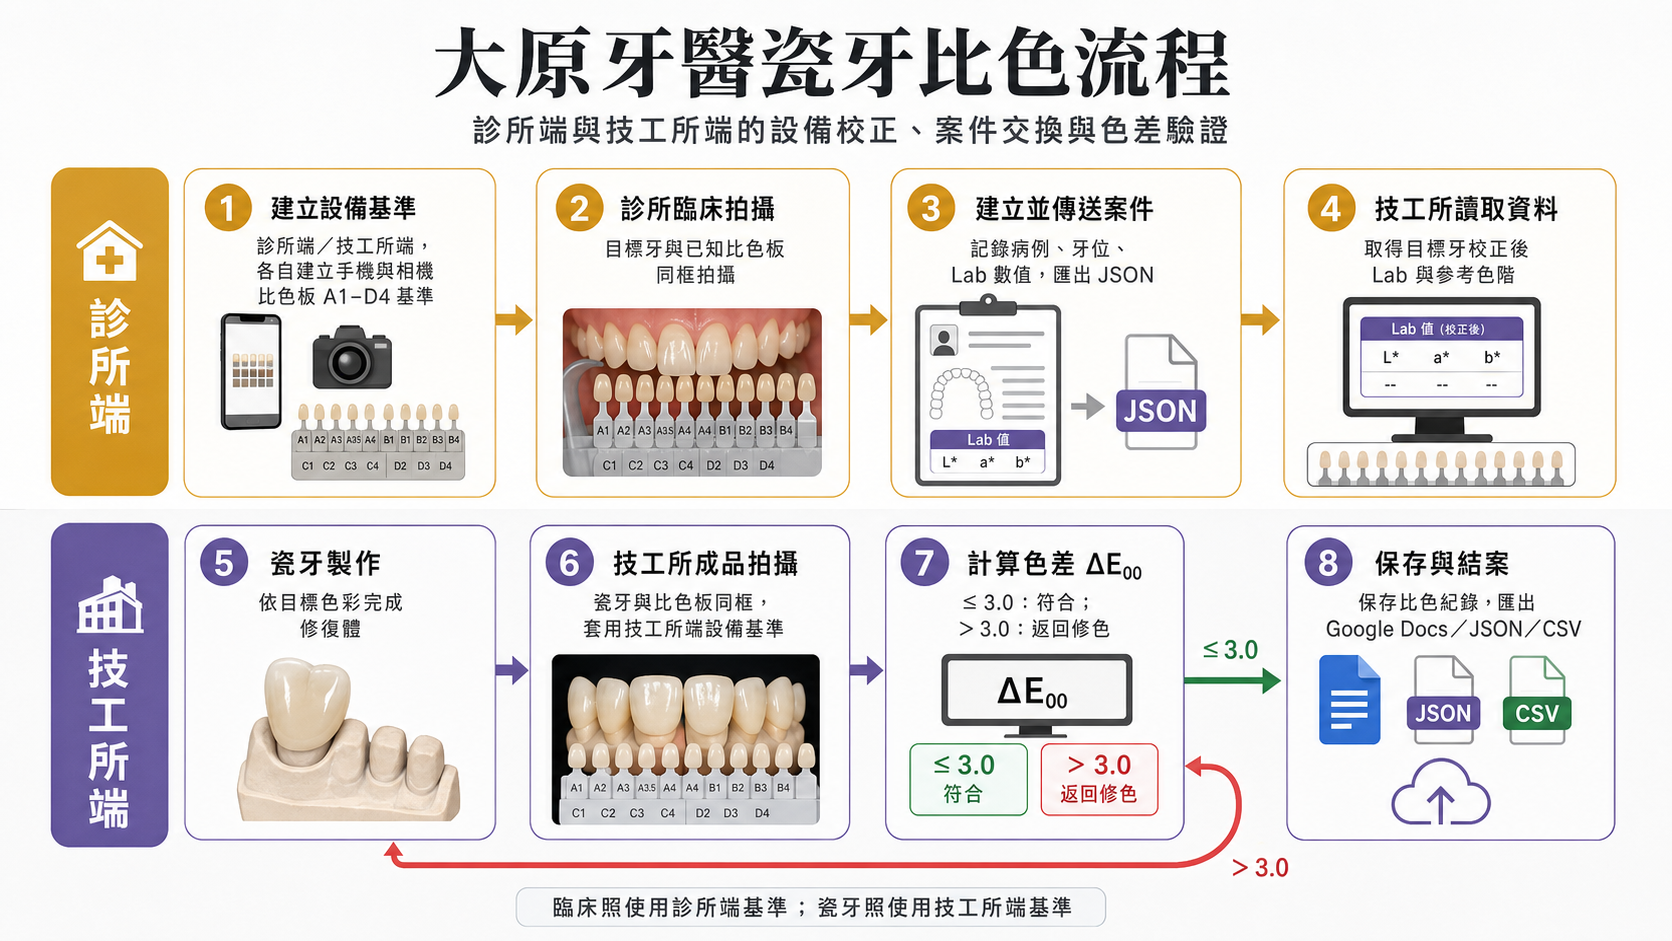
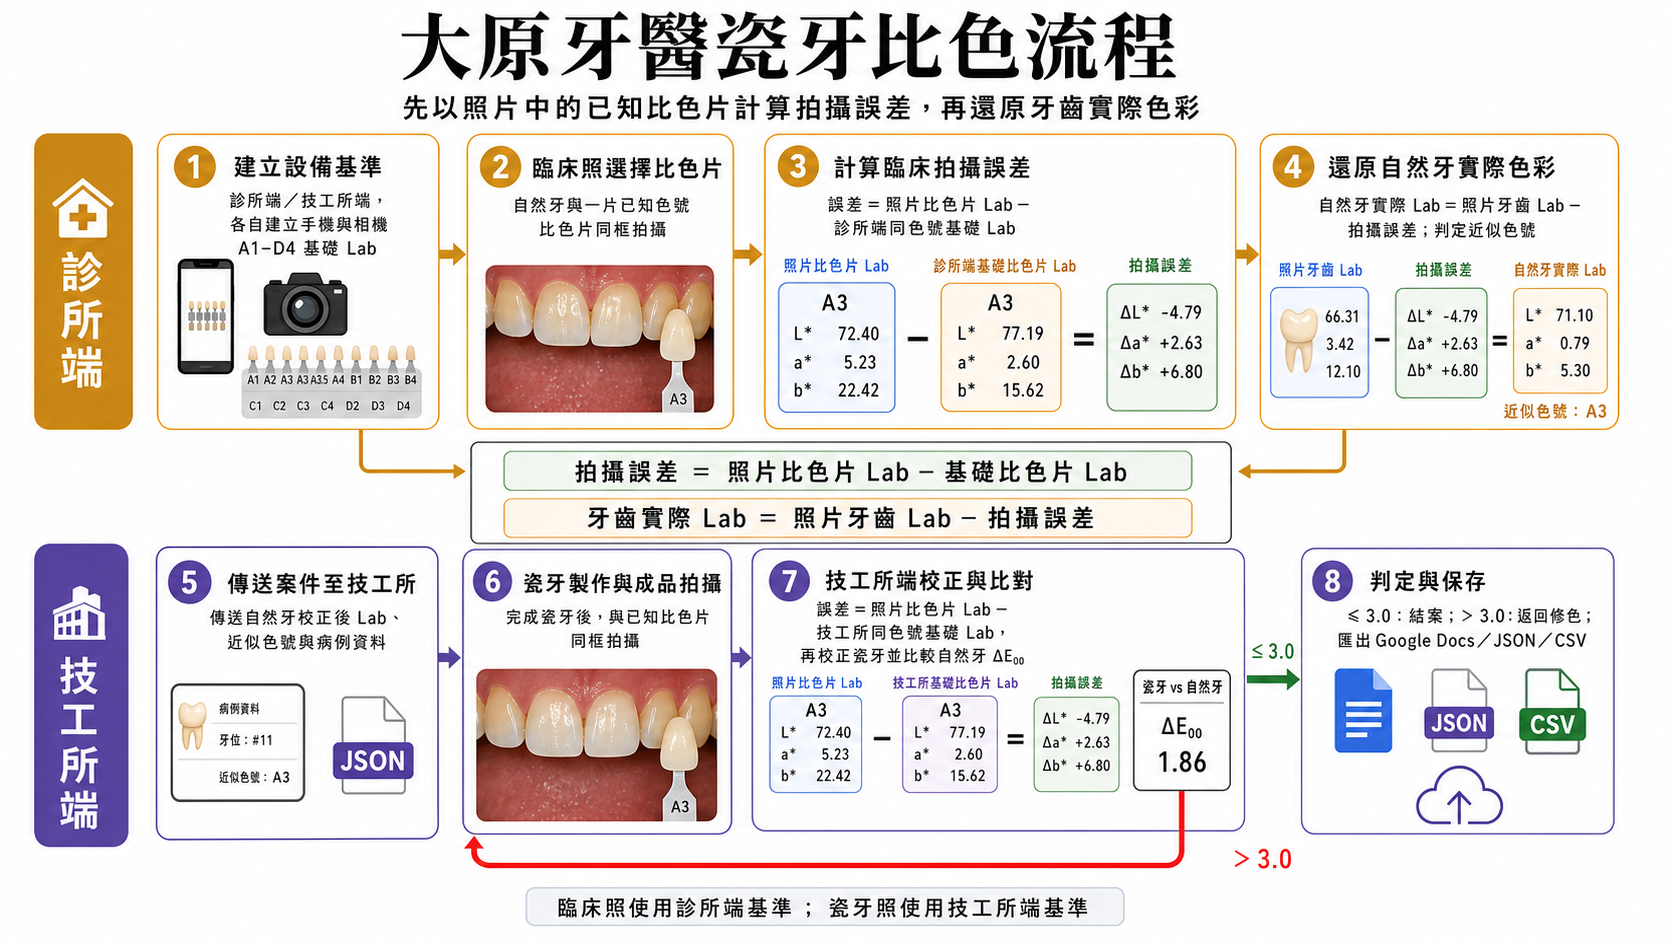
Correct shade reference calibration formula

diff --git a/index.html b/index.html
@@ -624,18 +624,18 @@
             <label class="field full">照片中的已知色階
               <select id="referenceShade"></select>
             </label>
-            <label class="field">參考 L*<input id="refL" type="number" step="0.1"></label>
-            <label class="field">參考 a*<input id="refA" type="number" step="0.1"></label>
-            <label class="field">參考 b*<input id="refB" type="number" step="0.1"></label>
           </div>
           <div class="cal-status">
-            <div class="status-line"><strong>選用設備的基礎校正量</strong><span id="calHint" style="color:var(--muted);font-size:11px">等待設備基準與照片</span></div>
+            <div class="status-line"><strong>基礎比色片與照片比色片的拍攝誤差</strong><span id="calHint" style="color:var(--muted);font-size:11px">等待設備基準與照片</span></div>
             <table class="mini-table">
               <thead><tr><th></th><th>L*</th><th>a*</th><th>b*</th></tr></thead>
               <tbody>
-                <tr><td>已知參考</td><td id="calRefL">--</td><td id="calRefA">--</td><td id="calRefB">--</td></tr>
-                <tr><td>臨床照校正</td><td id="targetCorrL">--</td><td id="targetCorrA">--</td><td id="targetCorrB">--</td></tr>
-                <tr><td>瓷牙照校正</td><td id="restorationCorrL">--</td><td id="restorationCorrA">--</td><td id="restorationCorrB">--</td></tr>
+                <tr><td>診所基礎值</td><td id="targetBaseL">--</td><td id="targetBaseA">--</td><td id="targetBaseB">--</td></tr>
+                <tr><td>臨床照比色片</td><td id="targetShadeL">--</td><td id="targetShadeA">--</td><td id="targetShadeB">--</td></tr>
+                <tr><td>臨床誤差（照片－基礎）</td><td id="targetCorrL">--</td><td id="targetCorrA">--</td><td id="targetCorrB">--</td></tr>
+                <tr><td>技工所基礎值</td><td id="restorationBaseL">--</td><td id="restorationBaseA">--</td><td id="restorationBaseB">--</td></tr>
+                <tr><td>瓷牙照比色片</td><td id="restorationShadeL">--</td><td id="restorationShadeA">--</td><td id="restorationShadeB">--</td></tr>
+                <tr><td>瓷牙誤差（照片－基礎）</td><td id="restorationCorrL">--</td><td id="restorationCorrA">--</td><td id="restorationCorrB">--</td></tr>
               </tbody>
             </table>
           </div>
@@ -749,7 +749,6 @@
     const shadeSelect = document.getElementById("referenceShade");
     shadeGuide.forEach(shade => shadeSelect.add(new Option(shade.name,shade.name)));
     shadeSelect.value = "A2";
-    setReference("A2");
     ["phone","camera"].forEach(type => {
       const select=document.getElementById(type+"BaselineShade");
       shadeGuide.forEach(shade=>select.add(new Option(shade.name,shade.name)));
@@ -804,8 +803,7 @@
       state.canvas.addEventListener("pointercancel",() => state.dragging=false);
     });
 
-    shadeSelect.addEventListener("change",() => { setReference(shadeSelect.value); updateResults(); });
-    ["refL","refA","refB"].forEach(id => document.getElementById(id).addEventListener("input",updateResults));
+    shadeSelect.addEventListener("change",updateResults);
     document.getElementById("radius").addEventListener("input",event => {
       document.getElementById("radiusValue").textContent=event.target.value+" px"; redrawBaselines();redrawAll();
     });
@@ -830,15 +828,6 @@
     ["targetDevice","restorationDevice"].forEach(id=>document.getElementById(id).addEventListener("change",updateResults));
     window.addEventListener("resize",()=>{redrawBaselines();redrawAll()});
 
-    function setReference(name) {
-      const shade=shadeGuide.find(item => item.name===name);
-      document.getElementById("refL").value=shade.lab[0];
-      document.getElementById("refA").value=shade.lab[1];
-      document.getElementById("refB").value=shade.lab[2];
-    }
-    function referenceLab() {
-      return ["refL","refA","refB"].map(id => Number(document.getElementById(id).value));
-    }
     function switchBaselineOwner() {
       Object.values(baselineStates).forEach(state=>{
         state.image=null;state.sample=null;state.display=null;state.input.value="";
@@ -1093,8 +1082,6 @@
       return {rgb,lab:rgbToLab(rgb)};
     }
     function updateResults() {
-      const ref=referenceLab();
-      setTriplet("calRef",ref);
       ["target","restoration"].forEach(side => {
         const state=states[side];
         const tooth=state.points.tooth.sample,shade=state.points.shade.sample;
@@ -1103,12 +1090,18 @@
         const profile=baselineProfiles[owner][device];
         const measuredBaseline=profile?.values?.[shadeSelect.value]?.lab;
         state.device=device;
-        state.correction=measuredBaseline?ref.map((value,index)=>value-measuredBaseline[index]):null;
-        state.corrected=tooth&&shade&&state.correction?tooth.lab.map((v,i)=>i===0?clamp(v+state.correction[i],0,100):v+state.correction[i]):null;
-        state.verification=shade&&state.correction
-          ?deltaE2000(shade.lab.map((v,i)=>i===0?clamp(v+state.correction[i],0,100):v+state.correction[i]),ref)
+        state.baselineLab=measuredBaseline||null;
+        state.error=measuredBaseline&&shade
+          ?shade.lab.map((value,index)=>value-measuredBaseline[index])
           :null;
-        setTriplet(side+"Corr",state.correction,true);
+        state.correction=state.error?state.error.map(value=>-value):null;
+        state.corrected=tooth&&state.error?tooth.lab.map((v,i)=>i===0?clamp(v-state.error[i],0,100):v-state.error[i]):null;
+        state.verification=shade&&measuredBaseline
+          ?deltaE2000(shade.lab,measuredBaseline)
+          :null;
+        setTriplet(side+"Base",measuredBaseline);
+        setTriplet(side+"Shade",shade?.lab||null);
+        setTriplet(side+"Corr",state.error,true);
         setTriplet(side,state.corrected);
         const swatch=document.getElementById(side+"Swatch");
         swatch.style.background=state.corrected?labToCss(state.corrected):"#625b52";
@@ -1117,8 +1110,8 @@
       document.getElementById("calBadge").textContent=readyCount===2?"兩張已套用設備基準":readyCount===1?"已校正一張":"等待設備基準與照片";
       document.getElementById("calBadge").classList.toggle("ready",readyCount===2);
       document.getElementById("calHint").textContent=readyCount===2
-        ?"現場比色板驗證 ΔE₀₀：臨床 "+formatVerification(states.target.verification)+"／瓷牙 "+formatVerification(states.restoration.verification)
-        :"先收集所選設備的 "+shadeSelect.value+" 基礎值，再完成牙齒與比色板取樣";
+        ?"校正前拍攝誤差 ΔE₀₀：臨床 "+formatVerification(states.target.verification)+"／瓷牙 "+formatVerification(states.restoration.verification)
+        :"先選照片中的比色片色號，取得同色號基礎值，再完成牙齒與比色片取樣";
       document.getElementById("step1").classList.toggle("done",!!states.target.corrected);
       document.getElementById("step2").classList.toggle("done",!!states.restoration.corrected);
       updateFlow();
@@ -1147,7 +1140,13 @@
       setDiff("A",diffs[1],diffs[1]>0?"瓷牙較紅":"瓷牙較綠");
       setDiff("B",diffs[2],diffs[2]>0?"瓷牙較黃":"瓷牙較藍");
       lastResult={
-        delta,target,restoration,diffs,ref,shade:nearestShade(target),
+        delta,target,restoration,diffs,shade:nearestShade(target),
+        targetBaseline:states.target.baselineLab,
+        restorationBaseline:states.restoration.baselineLab,
+        targetShadeSample:states.target.points.shade.sample?.lab,
+        restorationShadeSample:states.restoration.points.shade.sample?.lab,
+        targetError:states.target.error,
+        restorationError:states.restoration.error,
         targetCorrection:states.target.correction,
         restorationCorrection:states.restoration.correction,
         targetDevice:states.target.device,
@@ -1187,13 +1186,16 @@
       <h1>大原牙醫瓷牙比色報告</h1><p>建立時間：${now}</p>
       <h2>病例資料</h2><table><tr><th>病例編號</th><th>牙位</th><th>備註</th></tr><tr><td>${val("caseId")}</td><td>${val("toothNo")}</td><td>${val("caseNote")}</td></tr></table>
       <h2>設備基準與案件驗證</h2><p>臨床照設備：${lastResult.targetDevice==="phone"?"手機":"相機"}；瓷牙照設備：${lastResult.restorationDevice==="phone"?"手機":"相機"}</p><table><tr><th></th><th>L*</th><th>a*</th><th>b*</th></tr>
-      <tr><td>參考值</td>${lastResult.ref.map(v=>`<td>${v.toFixed(2)}</td>`).join("")}</tr>
-      <tr><td>臨床照校正量</td>${lastResult.targetCorrection.map(v=>`<td>${f(v)}</td>`).join("")}</tr>
-      <tr><td>瓷牙照校正量</td>${lastResult.restorationCorrection.map(v=>`<td>${f(v)}</td>`).join("")}</tr></table>
+      <tr><td>診所基礎比色片</td>${lastResult.targetBaseline.map(v=>`<td>${v.toFixed(2)}</td>`).join("")}</tr>
+      <tr><td>臨床照片比色片</td>${lastResult.targetShadeSample.map(v=>`<td>${v.toFixed(2)}</td>`).join("")}</tr>
+      <tr><td>臨床拍攝誤差（照片－基礎）</td>${lastResult.targetError.map(v=>`<td>${f(v)}</td>`).join("")}</tr>
+      <tr><td>技工所基礎比色片</td>${lastResult.restorationBaseline.map(v=>`<td>${v.toFixed(2)}</td>`).join("")}</tr>
+      <tr><td>瓷牙照片比色片</td>${lastResult.restorationShadeSample.map(v=>`<td>${v.toFixed(2)}</td>`).join("")}</tr>
+      <tr><td>瓷牙拍攝誤差（照片－基礎）</td>${lastResult.restorationError.map(v=>`<td>${f(v)}</td>`).join("")}</tr></table>
       <h2>校正後比色結果</h2><p><strong>CIEDE2000 ΔE₀₀：${lastResult.delta.toFixed(2)}</strong>；臨床牙近似色階：${lastResult.shade.name}</p>
       <table><tr><th></th><th>臨床牙</th><th>完成瓷牙</th><th>差值</th></tr>
       ${["L* 明度","a* 紅綠","b* 黃藍"].map((label,i)=>`<tr><td>${label}</td><td>${lastResult.target[i].toFixed(2)}</td><td>${lastResult.restoration[i].toFixed(2)}</td><td>${f(lastResult.diffs[i])}</td></tr>`).join("")}</table>
-      <p class="note">本報告先套用手機或相機的設備比色板基準，再以案件照片內的比色板檢查校正殘差。結果供病例紀錄與溝通使用，不取代多色塊校正或分光測色儀。</p></body></html>`;
+      <p class="note">計算方式：拍攝誤差＝照片中比色片 Lab－同色號基礎比色片 Lab；自然牙實際 Lab＝照片牙齒 Lab－拍攝誤差。結果供病例紀錄與溝通使用，不取代多色塊校正或分光測色儀。</p></body></html>`;
       const blob=new Blob([html],{type:"application/msword"});
       const link=document.createElement("a");link.href=URL.createObjectURL(blob);
       link.download="大原牙醫瓷牙比色報告_"+(document.getElementById("caseId").value||new Date().toISOString().slice(0,10))+".doc";
@@ -1213,11 +1215,15 @@
         toothNo:document.getElementById("toothNo").value.trim(),
         note:document.getElementById("caseNote").value.trim(),
         referenceShade:shadeSelect.value,
-        referenceLab:referenceLab(),
+        referenceBaseline:{
+          clinic:states.target.baselineLab,
+          laboratory:states.restoration.baselineLab
+        },
         clinic:{
           device:states.target.device,
           baseline:baselineProfiles.clinic[states.target.device],
           correctedLab:target,
+          captureError:states.target.error,
           correction:states.target.correction,
           verificationDeltaE00:states.target.verification,
           capturedAt:target?new Date().toISOString():null
@@ -1226,6 +1232,7 @@
           device:states.restoration.device,
           baseline:baselineProfiles.laboratory[states.restoration.device],
           correctedLab:states.restoration.corrected,
+          captureError:states.restoration.error,
           correction:states.restoration.correction,
           verificationDeltaE00:states.restoration.verification,
           capturedAt:states.restoration.corrected?new Date().toISOString():null
@@ -1314,14 +1321,14 @@
     }
     function resetAll() {
       Object.values(states).forEach(state=>{
-        state.image=null;state.corrected=null;state.correction=null;state.display=null;state.active="tooth";state.input.value="";
+        state.image=null;state.corrected=null;state.error=null;state.correction=null;state.baselineLab=null;state.display=null;state.active="tooth";state.input.value="";
         state.points.tooth={x:.42,y:.5,color:"#55aaff",sample:null};
         state.points.shade={x:.72,y:.5,color:"#a889ff",sample:null};
         state.empty.classList.remove("hidden");state.ctx.clearRect(0,0,state.canvas.width,state.canvas.height);
         document.querySelectorAll('.sample-mode[data-side="'+state.side+'"]').forEach(item=>item.classList.toggle("active",item.dataset.point==="tooth"));
       });
       lastResult=null;caseRecord=null;["caseId","toothNo","caseNote"].forEach(id=>document.getElementById(id).value="");
-      shadeSelect.value="A2";setReference("A2");
+      shadeSelect.value="A2";
       document.getElementById("databaseBadge").textContent="本機原型";
       document.getElementById("databaseBadge").classList.remove("ready");
       document.getElementById("databaseStatus").textContent="尚未建立案件";